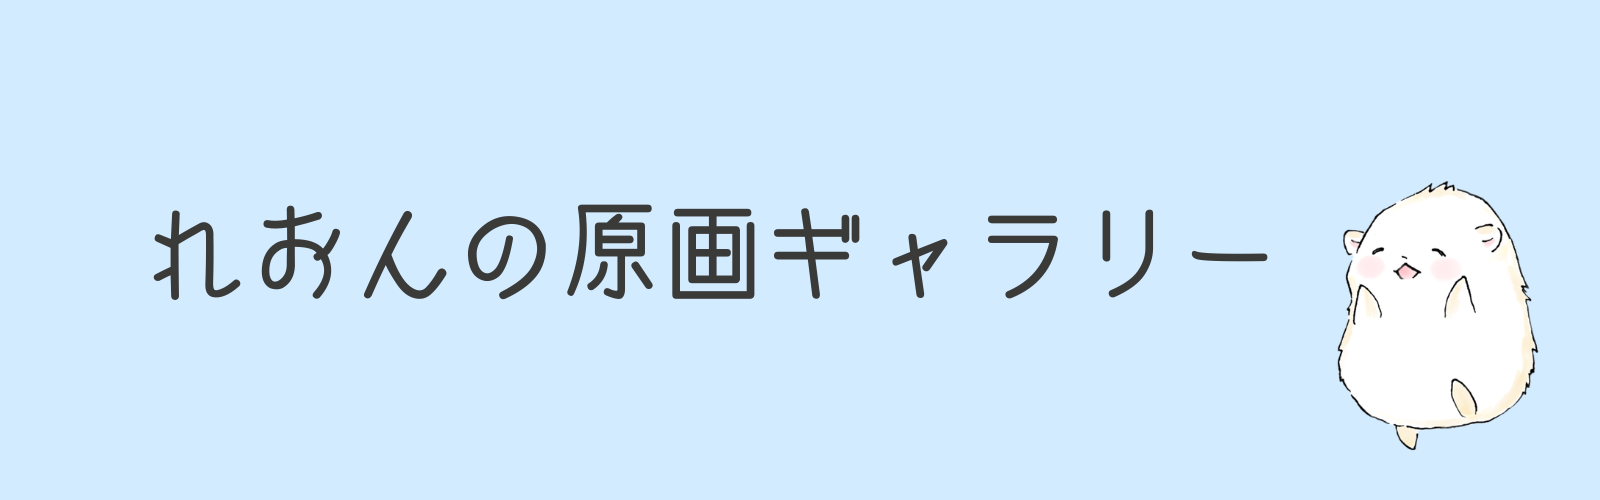
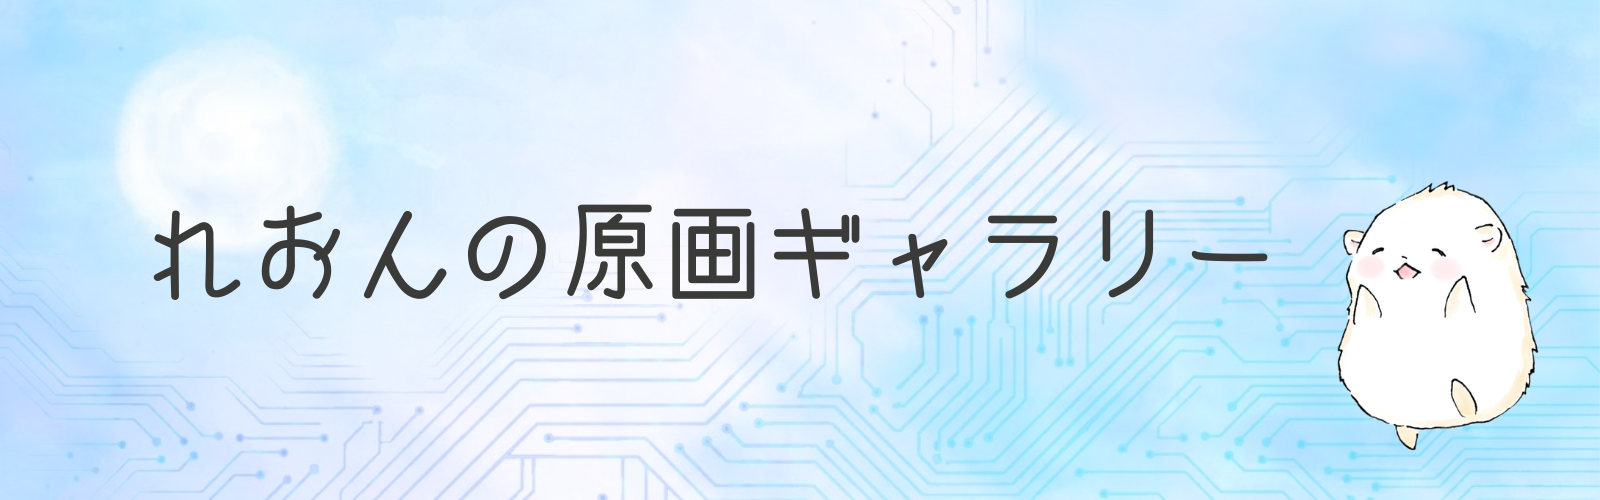
ヘッダー変更

diff --git a/style.css b/style.css
@@ -30,7 +30,7 @@ body {
 
 .site-header h1.header-image {
   margin: 0 auto 16px;
-  max-width: 760px;
+  max-width: 600px;
 }
 
 .site-header h1.header-image img {
